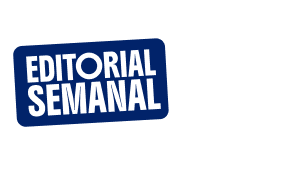
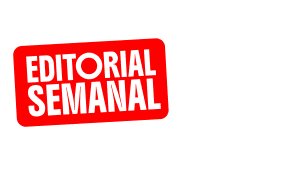
style: update color variables and adjust component styles for consistency

Changed region(s): [[0.0308, 0.2071, 0.5856, 0.7692]]

diff --git a/src/components/ui/RadioWaves.svelte b/src/components/ui/RadioWaves.svelte
@@ -164,69 +164,69 @@
   <!-- Grupo superior: 7 franjas animadas (bump hacia arriba) ───────────── -->
   <path
     data-top
-    fill="#B9FFC1"
+    fill="var(--color-brand-teal)"
     d="M190.416 14.9432C202.396 7.66678 217.91 -5.86297 254.12 2.80359C280.636 9.14868 300.293 22.0912 329.988 25.0641V27.9316C300.355 25.1467 280.012 12.7869 253.276 6.76755C217.029 -1.39435 201.443 11.1307 188.973 18.3291C138.9 47.2329 57.6895 25.6422 -5 27.9316V25.0641C58.3985 22.6371 140.623 45.1867 190.416 14.9432Z"
   />
   <path
     data-top
-    fill="#B9FFC1"
+    fill="var(--color-brand-teal)"
     d="M187.188 22.3207C200.355 15.1864 215.99 3.84972 252.249 11.4106C279.254 17.04 300.428 28.707 330 31.2717V34.2309C289.853 31.0147 255.526 9.03864 218.154 13.8743C203.826 15.7278 195.379 20.8433 185.489 25.8946C134.756 51.8072 56.1491 32.2672 -5 34.2309V31.2717C56.8704 29.1521 136.748 49.6508 187.188 22.3252V22.3207Z"
   />
   <path
     data-top
-    fill="#B9FFC1"
+    fill="var(--color-brand-teal)"
     d="M181.296 30.9736C192.188 26.2435 200.538 21.027 215.073 19.0405C253.337 13.8102 289.279 34.7174 330 37.672V40.7229C300.086 38.7593 276.247 28.9091 247.971 24.5001C210.257 18.6184 195.465 28.1383 179.425 34.6485C126.87 55.9777 54.7311 39.1355 -5 40.7184V37.6674C55.4523 35.9056 128.912 53.7159 181.296 30.969V30.9736Z"
   />
   <path
     data-top
-    fill="#B9FFC1"
+    fill="var(--color-brand-teal)"
     d="M177.2 38.9291C194.12 32.6253 208.9 24.2386 246.663 29.5055C275.245 33.4924 300.049 42.5352 330 44.2648V47.4075C288.435 45.2879 249.645 28.877 210.11 33.1712C196.112 34.6898 186.687 38.796 175.232 42.7233C122.286 60.9006 53.2518 46.2193 -5 47.4029V44.2602C53.9242 42.8884 124.45 58.5883 177.2 38.9245V38.9291Z"
   />
   <path
     data-top
-    fill="#B9FFC1"
+    fill="var(--color-brand-teal)"
     d="M172.971 47.1368C191.516 41.4065 206.296 34.9697 244.181 39.108C273.362 42.2966 299.914 49.7657 330 51.0687V54.3123C287.787 52.7524 247.078 39.5438 206.663 43.1637C193.068 44.3795 182.848 47.7378 171.027 51.0228C117.616 65.8876 52.0049 53.5094 -5 54.3077V51.0641C52.555 50.0869 119.792 63.5616 172.971 47.1322V47.1368Z"
   />
   <path
     data-top
-    fill="#B9FFC1"
+    fill="var(--color-brand-teal)"
     d="M168.875 55.5054C189.218 50.5734 203.851 45.9029 241.76 48.9539C271.528 51.3488 299.694 57.1754 330 58.0838V61.4238C287.09 60.387 244.694 50.4587 203.423 53.3491C190.22 54.2713 179.193 56.8588 167.09 59.4373C113.313 70.9024 50.9291 60.9834 -5 61.4238V58.0838C51.4548 57.4782 115.171 68.5351 168.875 55.51V55.5054Z"
   />
   <path
     data-top
-    fill="#B9FFC1"
+    fill="var(--color-brand-teal)"
     d="M165.196 63.9287C187.164 60.1437 201.32 56.9276 239.584 58.9876C269.914 60.6163 299.413 64.75 330 65.3051V68.7506C299.279 68.3423 269.267 64.9977 238.704 63.7085C212.274 62.5937 189.071 64.282 163.729 67.8376C109.108 75.4995 50.5501 68.5855 -5 68.746V65.3005C50.8191 65.0161 110.795 73.2973 165.196 63.9242V63.9287Z"
   />
 
   <!-- Grupo inferior: 7 franjas animadas (bump hacia abajo) ────────────── -->
   <path
     data-bot
-    fill="#B9FFC1"
+    fill="var(--color-brand-teal)"
     d="M121.577 86.3636C134.78 85.4414 145.807 82.8538 157.91 80.2754C211.687 68.8102 274.071 78.7293 330 78.2888V81.6288C273.545 82.2344 209.829 71.1776 156.125 84.2027C135.782 89.1347 121.149 93.8052 83.2396 90.7542C53.4719 88.3593 25.3056 82.5327 -5 81.6243V78.2843C37.9095 79.3211 80.3056 89.2494 121.577 86.359V86.3636Z"
   />
   <path
     data-bot
-    fill="#B9FFC1"
+    fill="var(--color-brand-teal)"
     d="M118.337 96.544C131.932 95.3282 142.152 91.9698 153.973 88.6849C207.384 73.8201 272.995 86.1982 330 85.3999V88.6436C272.445 89.6208 205.208 76.1461 152.029 92.5754C133.484 98.3057 118.704 104.743 80.8191 100.604C51.6381 97.4157 25.0856 89.9466 -5 88.6436V85.3999C37.2127 86.9598 77.9218 100.168 118.337 96.5486V96.544Z"
   />
   <path
     data-bot
-    fill="#B9FFC1"
+    fill="var(--color-brand-teal)"
     d="M114.89 106.532C128.888 105.013 138.313 100.907 149.768 96.9798C202.714 78.8025 271.748 93.4838 330 92.3001V95.4429C271.076 96.8147 200.55 81.1148 147.8 100.779C130.88 107.082 116.1 115.469 78.3374 110.202C49.7555 106.215 24.9511 97.1725 -5 95.4429V92.3001C36.5648 94.4198 75.3545 110.831 114.89 106.536V106.532Z"
   />
   <path
     data-bot
-    fill="#B9FFC1"
+    fill="var(--color-brand-teal)"
     d="M145.575 105.064C198.13 83.7349 270.269 100.573 330 98.9897V102.041C269.548 103.802 196.088 85.9922 143.704 108.739C132.812 113.469 124.462 118.686 109.927 120.672C71.6626 125.902 35.7213 104.995 -5 102.041V98.9897C24.9144 100.953 48.7531 110.804 77.0293 115.213C114.743 121.094 129.535 111.574 145.575 105.064Z"
   />
   <path
     data-bot
-    fill="#B9FFC1"
+    fill="var(--color-brand-teal)"
     d="M106.846 125.833C121.174 123.98 129.621 118.864 139.511 113.813C190.244 87.9051 268.851 107.44 330 105.481V108.441C268.13 110.56 188.252 90.0615 137.812 117.387C124.645 124.521 109.01 135.858 72.7506 128.297C45.7457 122.668 24.5721 111.001 -5 108.436V105.477C35.1467 108.693 69.4743 130.669 106.846 125.833Z"
   />
   <path
     data-bot
-    fill="#B9FFC1"
-    d="M136.015 121.378C186.112 92.4746 267.323 114.07 330 111.776V114.643C266.601 117.07 184.377 94.5208 134.584 124.764C122.604 132.041 107.09 145.57 70.8802 136.904C44.3643 130.559 24.7066 117.616 -4.98779 114.643V111.776C24.6455 114.561 44.9878 126.921 71.7237 132.94C107.971 141.102 123.557 128.577 136.027 121.378H136.015Z"
+    fill="var(--color-brand-teal)"
+    d="M136.015 121.378C186.112 92.4746 267.323 114.07 330 111.776V114.643C266.601 117.07 184.377 94.5208 134.584 124.764C122.604 132.041 107.09 145.57 70.8802 136.904C44.3643 130.559 24.7066 117.616 -4.98779 114.643V111.776C24.6455 114.561 44.9878 126.921 71.7237 132.94C107.97１ １４１．１０２ １２３．５５７ １２８．５７７ １３６．０２７ １２１．３７８Ｈ１３６．０１５Ｚ"
   />
 </svg>

diff --git a/src/styles/global.css b/src/styles/global.css
@@ -1,20 +1,25 @@
 @import "tailwindcss";
 
 @theme {
-  /* ── Paleta ──────────────────────────────────────────────────────────── */
+  /* ── Primarios ───────────────────────────────────────────────────────── */
   --color-brand-dark: #080F1A;
-  /* fondo header y secciones oscuras */
---color-brand-teal: #00C9B1;
-  /* acento principal */
-  --color-brand-orange: #FB923C;
-  /* badge "ESTÁ PASANDO" */
-  --color-brand-white: #F0F4F8;
-  /* texto sobre fondos oscuros */
+  /* azul dark — fondo base streaming y redes sociales                      */
+  --color-brand-teal: #00C9B1;
+  /* turquesa — acento principal, elementos estructurales del portal        */
   --color-brand-green: #B9FFC1;
-  --color-brand-gray: #FFFFFF8C;
-  --color-brand-blue: #01236A;
-  --color-brand-red: #E24B4A;
-  --color-brand-blue-light: #081830;
+  /* verde lima — acento secundario, dominante en redes                     */
+  --color-brand-blue: #003AB2;
+  /* azul — sección de programas y noticias destacadas                      */
+
+  /* ── Secundarios ─────────────────────────────────────────────────────── */
+  --color-brand-red: #FF0000;
+  /* rojo — Último Momento, etiquetas de contenido urgente                  */
+  --color-brand-yellow: #FFFF00;
+  /* amarillo — acentos secundarios, Último Momento                          */
+  --color-brand-gray: #EBEBEB;
+  /* gris oscuro — variante de fondo para diferenciar sin contraste         */
+  --color-brand-white: #FFFFFF;
+  /* blanco — fondo base, títulos y texto de alto contraste                 */
 
   /* Alias semánticos */
   --color-primary: var(--color-brand-dark);

diff --git a/src/components/ui/SectionsMenu.svelte b/src/components/ui/SectionsMenu.svelte
@@ -46,7 +46,7 @@
       })
       .to(spans, {
         x: 0,
-        color: 'var(--color-brand-gray)',
+        color: 'color-mix(in srgb, var(--color-brand-white) 55%, transparent)',
         duration: 0.45,
         stagger: 0.07,
         ease: 'power2.inOut',
@@ -115,7 +115,7 @@
             >
               <span
                 class="gsap-text font-boldonse font-normal uppercase inline-block leading-none align-bottom"
-                style="font-size: clamp(2rem, 4.5vw, 2.75rem); color: var(--color-brand-gray);"
+                style="font-size: clamp(2rem, 4.5vw, 2.75rem); color: color-mix(in srgb, var(--color-brand-white) 55%, transparent);"
               >
                 {section.title}
               </span>